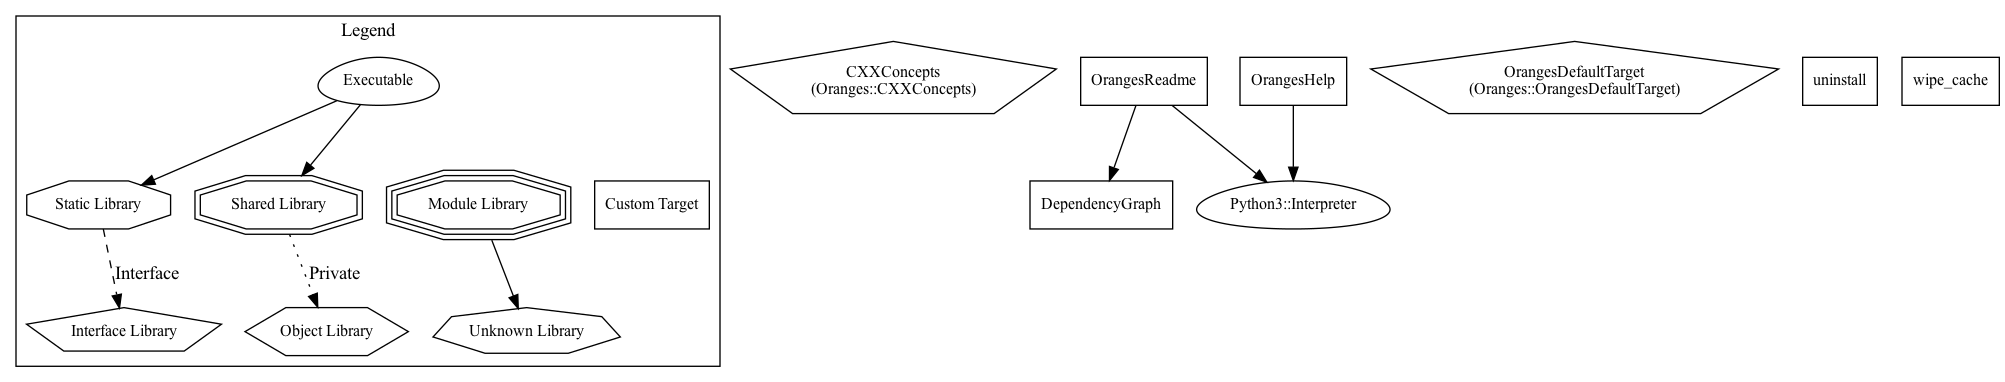
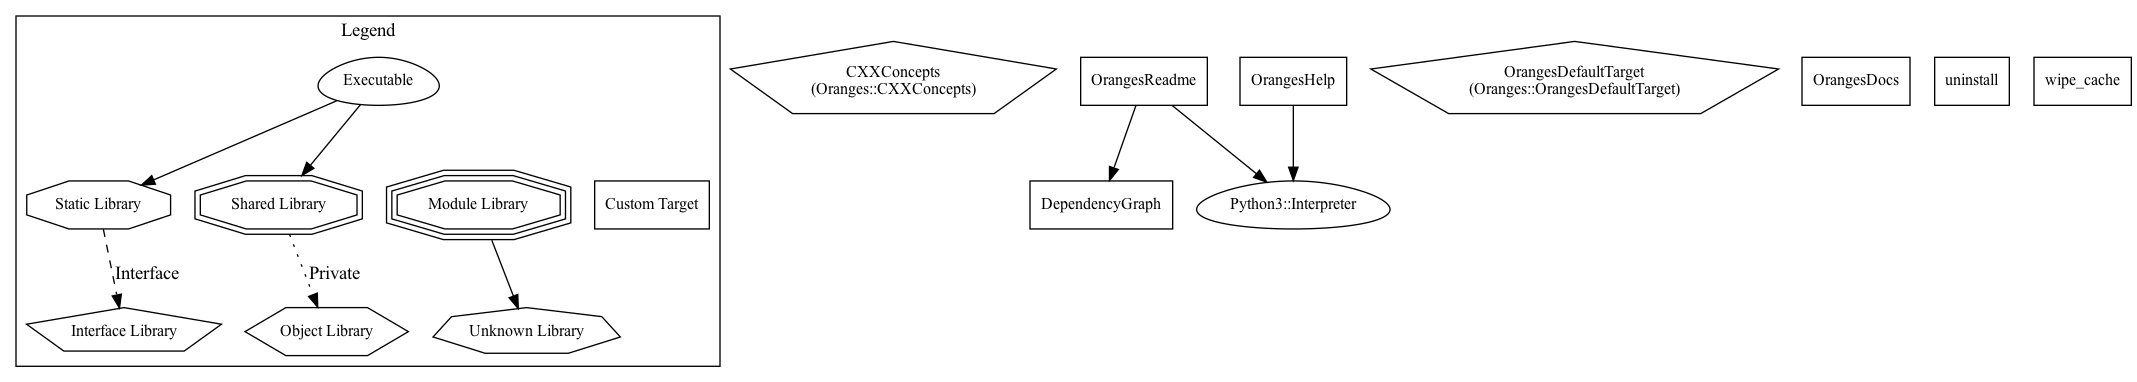
docs: setting up sphinx docs build
Precommit-Verified: 810387108aed5e42836ce1c282c1e0d6d3dc78fe48365d1fcf479867314d0b0e

diff --git a/docs/generate_rsts.py b/docs/generate_rsts.py
@@ -1,0 +1,92 @@
+#!/usr/bin/env python3
+# -*- coding: utf-8 -*-
+"""
+This script generates a set of .rst files, one for each CMake module, that simply references the actual .cmake file in the source tree.
+
+This script also generates an index.rst file, with a toc-tree linking to each module.
+"""
+
+# ======================================================================================
+#    ____  _____            _   _  _____ ______  _____
+#   / __ \|  __ \     /\   | \ | |/ ____|  ____|/ ____|
+#  | |  | | |__) |   /  \  |  \| | |  __| |__  | (___
+#  | |  | |  _  /   / /\ \ | . ` | | |_ |  __|  \___ \
+#  | |__| | | \ \  / ____ \| |\  | |__| | |____ ____) |
+#   \____/|_|  \_\/_/    \_\_| \_|\_____|______|_____/
+#
+#  This file is part of the Oranges open source CMake library and is licensed under the terms of the GNU Public License.
+#
+# ======================================================================================
+
+from typing import Final
+import os
+
+#
+
+MODULES_ROOT: Final[str] = "@ORANGES_MODULES_ROOT@"
+
+RST_OUTPUT_DIR: Final[str] = "@RST_OUTPUT_DIR@"
+
+INPUT_INDEX_FILE: Final[str] = "@INPUT_INDEX_FILE@"
+
+os.makedirs (RST_OUTPUT_DIR)
+
+generated_files: list[str] = []
+
+#
+
+def process_directory(dir_path) -> None:
+	"""
+	Processes all CMake modules in a directory, recursively.
+	"""
+
+	for entry in os.listdir(dir_path):
+
+		if entry == "scripts":
+			continue
+
+		entry_path: Final[str] = os.path.join(dir_path, entry)
+
+		if os.path.isdir(entry_path):
+			process_directory(entry_path)
+			continue
+
+		if os.path.isfile(entry_path):
+			if not entry.endswith(".cmake"):
+				continue
+
+			output_file: Final[str] = os.path.join(RST_OUTPUT_DIR, f"{entry.removesuffix('.cmake')}.rst")
+
+			output_path: Final[str] = os.path.relpath (entry_path, start=RST_OUTPUT_DIR)
+
+			with open(output_file, "w", encoding="utf-8") as rst_out:
+				rst_out.write(f".. cmake-module:: {output_path}")
+
+			generated_files.append(output_file)
+
+#
+
+for dirname in os.listdir(MODULES_ROOT):
+	if dirname == "internal":
+		continue
+
+	DIRPATH: Final[str] = os.path.join(MODULES_ROOT, dirname)
+
+	if not os.path.isdir(DIRPATH):
+		continue
+
+	process_directory(DIRPATH)
+
+with open(INPUT_INDEX_FILE, "r", encoding="utf-8") as index_in:
+	index_lines = index_in.readlines()
+
+OUTPUT_TREE_ROOT: Final[str] = os.path.abspath(os.path.dirname(RST_OUTPUT_DIR))
+
+for filepath in generated_files:
+	rel_path = os.path.relpath(filepath, start=OUTPUT_TREE_ROOT)
+	index_lines.append(f"\n   {rel_path}")
+
+output_index = os.path.join(OUTPUT_TREE_ROOT, "index.rst")
+
+with open(output_index, "w", encoding="utf-8") as index_out:
+	index_out.write("".join(index_lines))

diff --git a/docs/conf.py b/docs/conf.py
@@ -12,30 +12,26 @@
 #
 # ======================================================================================
 
-import sys
-
-
-sys.path.insert(0, r'@conf_path@')
 
 source_suffix = '.rst'
 root_doc = 'index'
 
 project = 'Oranges'
 author = 'Ben Vining'
-copyright = '@conf_copyright@'  # pylint: disable=redefined-builtin
+copyright = '@conf_copyright@'
 version = '@conf_version@'  # feature version
 release = '@conf_version@'  # full version string
-pygments_style = 'colors.CMakeTemplateStyle'
+#pygments_style = 'colors.CMakeTemplateStyle'
 
 language = 'en'
 primary_domain = 'cmake'
 highlight_language = 'none'
 
-# needs_sphinx = '1.1'
+needs_sphinx = '1.1'
 
 exclude_patterns = []
 
-extensions = ['cmake']
+extensions = ['sphinxcontrib.moderncmakedomain']
 #templates_path = ['@conf_path@/templates']
 
 nitpicky = True
@@ -74,7 +70,7 @@ html_theme_options = {
 # editorconfig-checker-enable
 
 html_title = f'Oranges {release} Documentation'
-html_short_title = f'{release} Documentation'
+html_short_title = f'Oranges {release} Documentation'
 #html_favicon = '@conf_path@/static/cmake-favicon.ico'
 
 # Not supported yet by sphinx:

diff --git a/README.md b/README.md
@@ -15,7 +15,6 @@
 [![semantic-release: conventionalcommits](https://img.shields.io/badge/semantic--release-conventionalcommits-e10079?logo=semantic-release)](https://github.com/semantic-release/semantic-release)
 ![License](https://img.shields.io/github/license/benthevining/Oranges)
 ![GitHub repo size](https://img.shields.io/github/repo-size/benthevining/Oranges)
-![Lines of code](https://img.shields.io/tokei/lines/github/benthevining/Oranges)
 ![GitHub commit activity](https://img.shields.io/github/commit-activity/m/benthevining/Oranges)
 ![GitHub Release Date](https://img.shields.io/github/release-date/benthevining/Oranges)
 ![GitHub release](https://img.shields.io/github/v/release/benthevining/Oranges)
@@ -127,7 +126,6 @@ See the `FindOranges` file for more documentation on what it does.
 
 ## CMake install components
   * oranges_modules
-  * oranges_docs
   * oranges - installs all Oranges components
 
 ## Dependency graph

diff --git a/docs/index.rst b/docs/index.rst
@@ -1,0 +1,9 @@
+.. title:: Oranges Documentation
+
+Oranges is a library of CMake modules.
+
+Modules
+##################
+
+.. toctree::
+   :maxdepth: 1
